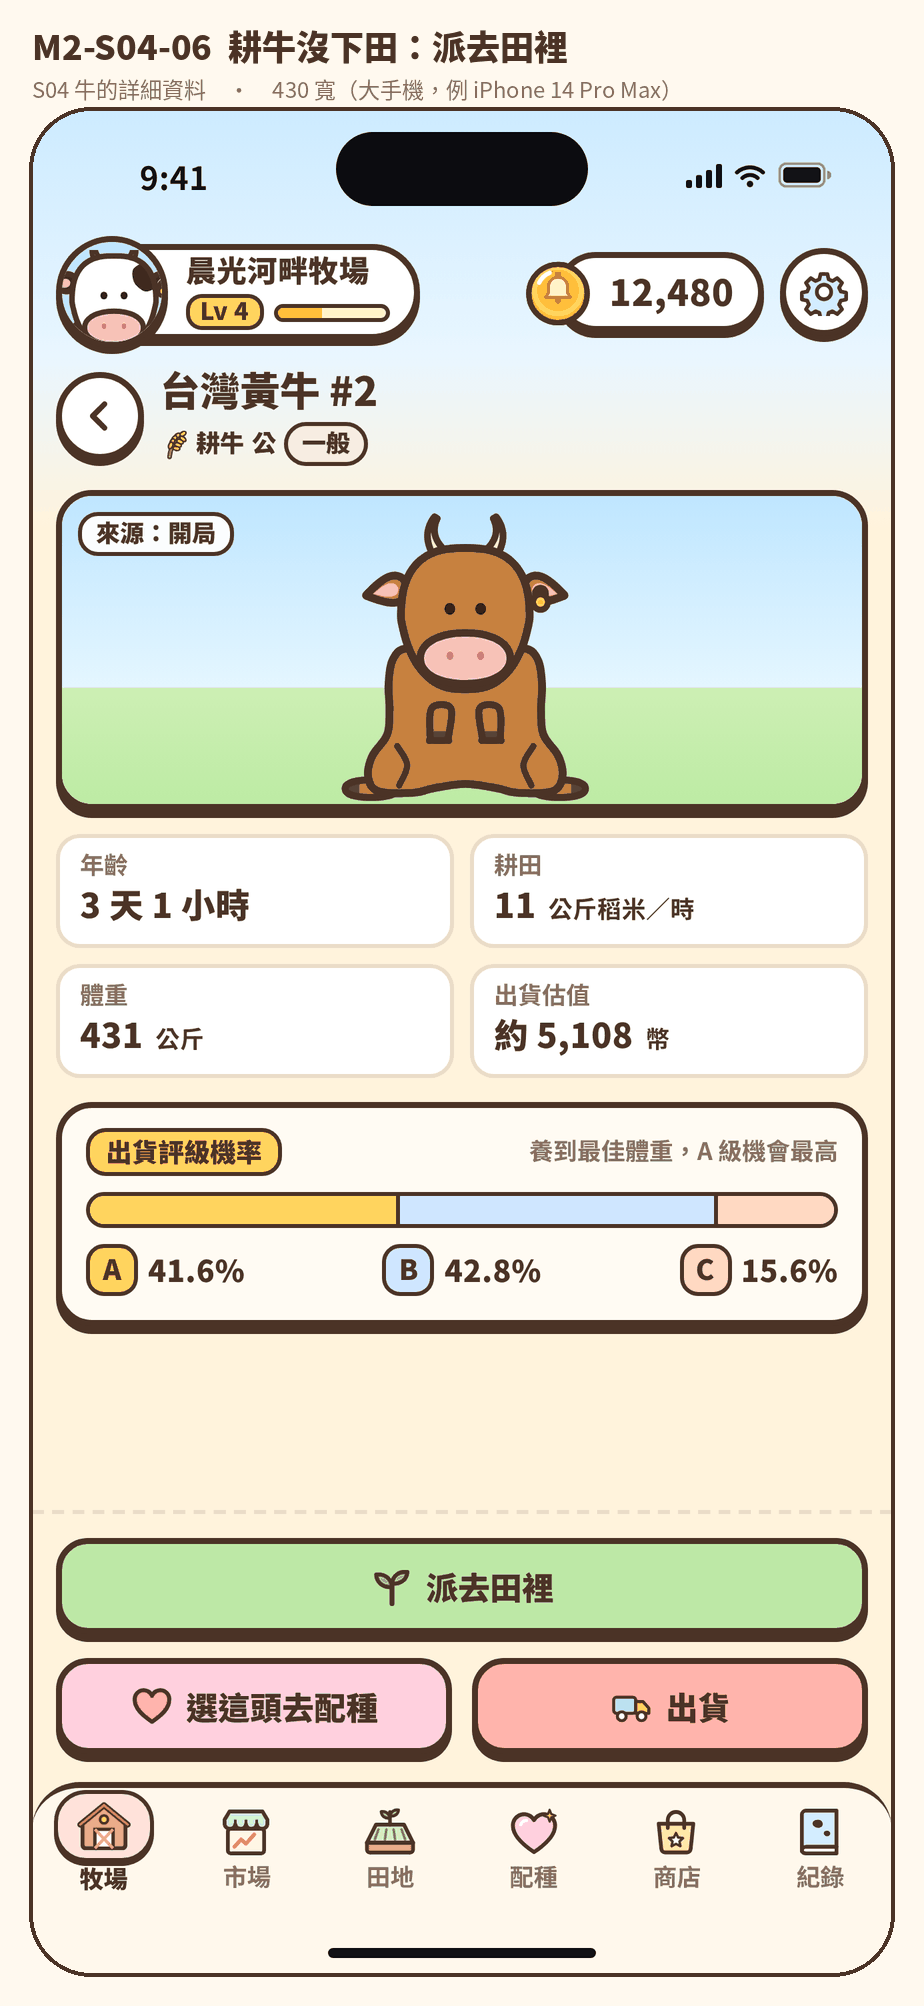
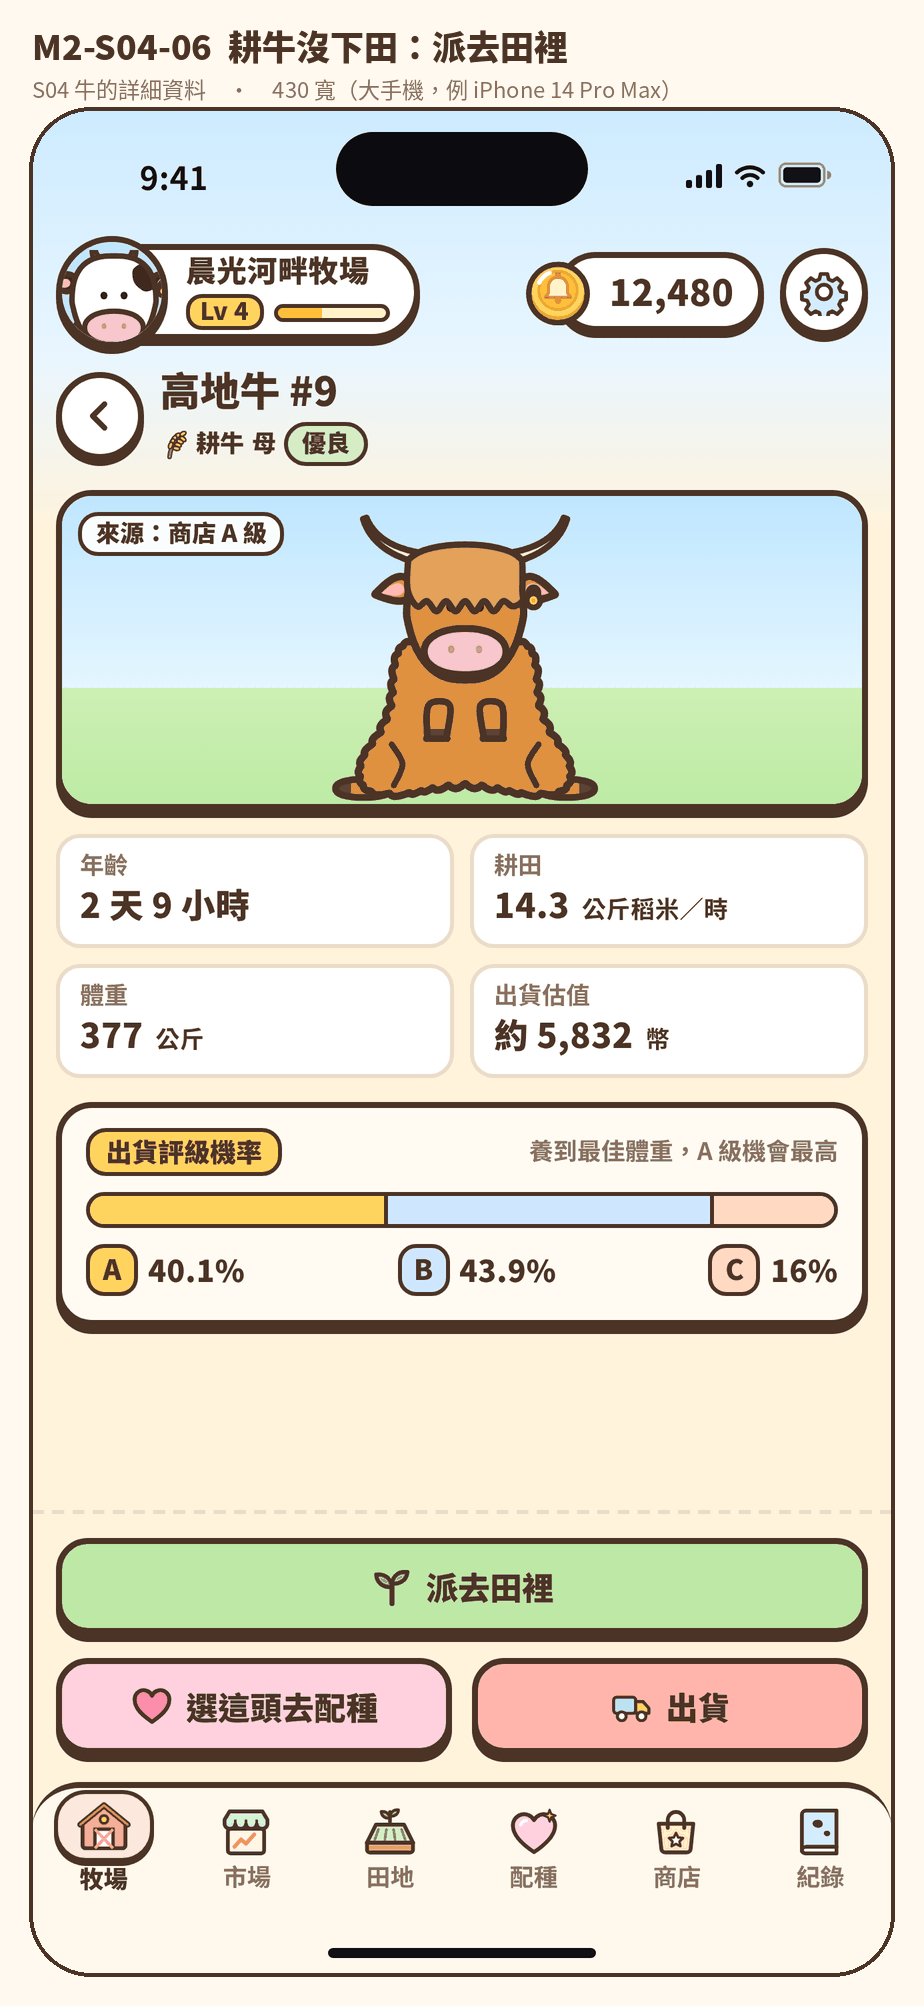
S04-06、07、13 的範例牛改成母耕牛高地牛 #9（公耕牛的 4 個動作在 S04-14～16，D31）；scope.md 補公耕牛沒有空田的規則（cow-app #99）

diff --git a/design/m2/src/js/screens/s04.js b/design/m2/src/js/screens/s04.js
@@ -74,8 +74,11 @@ full('S04-05', '公牛上架中', (ctx) => detailPage(ctx, cowById(5), {
   buttons: `${btn(t('unlist'), { ic: 'tag', block: true })}<div class="btn-row" style="margin-top:12px">${breedBtn(true)}${shipBtn(true)}</div>`,
 }));
 const idleOx = { ...cowById(2), field: null };
-full('S04-06', '耕牛沒下田：派去田裡', (ctx) => detailPage(ctx, idleOx, { buttons: `${btn(t('g.assign'), { kind: 'green', ic: 'sprout', block: true })}<div class="btn-row" style="margin-top:12px">${breedBtn(false)}${shipBtn(false)}</div>` }));
-full('S04-07', '耕牛在田裡工作', (ctx) => detailPage(ctx, cowById(2), {
+// 母耕牛（高地牛 #9）只能下田、不能上架借種，所以一排一顆（S04-06、07、13；配過種的公耕牛也是這樣）。
+// 成年、沒配過種的公耕牛（黃牛 #2）是 4 個動作，見 S04-14～16（D31；ceo 2026-10-02 把範例牛換掉，跟 cow-app #99 一致）
+const cowOx = { ...cowById(9), field: null };
+full('S04-06', '耕牛沒下田：派去田裡', (ctx) => detailPage(ctx, cowOx, { buttons: `${btn(t('g.assign'), { kind: 'green', ic: 'sprout', block: true })}<div class="btn-row" style="margin-top:12px">${breedBtn(false)}${shipBtn(false)}</div>` }));
+full('S04-07', '耕牛在田裡工作', (ctx) => detailPage(ctx, { ...cowById(9), field: 0 }, { // 第 1 塊田（跟原本的稿一樣）
   note: t('recallFirst', { n: 1 }),
   buttons: `${btn(t('s04.recall'), { ic: 'hand', block: true })}<div class="btn-row" style="margin-top:12px">${breedBtn(true)}${shipBtn(true)}</div>`,
 }));
@@ -89,7 +92,7 @@ full('S04-11', '這頭牛已經不在了', (ctx) => frame(ctx.dev, { tab: 'ranch
   <div class="page-head"><button class="icon-btn" aria-label="${t('back')}">${icon('back', 22)}</button><div class="grow"><h1>${t('cowTitle', { id: 3 })}</h1></div></div>
   <article class="card">${empty({ pic: cowSVG({ breed: 'holstein' }, { w: 120, h: 120, sil: true }), t1: t('s04.goneTitle'), t2: t('s04.goneBody'), action: btn(t('s04.backRanch'), { kind: 'primary' }) })}</article></div>` }));
 part('S04-12', '斷線：按鈕全部停用', '.detail-actions', (ctx) => detailPage(ctx, cowById(3), { offline: true, buttons: `<div class="btn-row">${breedBtn(true)}${shipBtn(true)}</div>` }));
-part('S04-13', '耕牛：沒有空田，派不出去', '.detail-actions', (ctx) => detailPage(ctx, idleOx, { buttons: `${btn(t('g.assign'), { kind: 'green', ic: 'sprout', block: true, disabled: true })}<p class="warn-text" style="margin-top:8px;text-align:center">${t('s04.noField')}</p><div class="btn-row" style="margin-top:10px">${breedBtn(false)}${shipBtn(false)}</div>` }));
+part('S04-13', '耕牛：沒有空田，派不出去', '.detail-actions', (ctx) => detailPage(ctx, cowOx, { buttons: `${btn(t('g.assign'), { kind: 'green', ic: 'sprout', block: true, disabled: true })}<p class="warn-text" style="margin-top:8px;text-align:center">${t('s04.noField')}</p><div class="btn-row" style="margin-top:10px">${breedBtn(false)}${shipBtn(false)}</div>` }));
 // 公耕牛（成年、沒配過種）：可以下田，也可以上架借種，一共 4 個動作。第一排兩顆半寬：派去田裡（或叫回來）、上架借種（或下架）；第二排照舊（缺口清單 2-1，D31）
 const oxRow = (a, b) => `<div class="btn-row">${a}${b}</div><div class="btn-row" style="margin-top:12px">`;
 const FEE2 = studFee(idleOx.kg, 0);

diff --git a/design/m2/scope.md b/design/m2/scope.md
@@ -152,20 +152,22 @@
 | S04-03 | 公牛，可以上架：多「上架」 | 整頁 | `:147-155` | `S.list` | 有（沒有截圖） |
 | S04-04 | 上架借種：借種費由系統算（體重 × 每公斤價格），顯示算法；「上架（870 幣）」 | 整頁 | `_list`（`:232-251`）；D26 | 新（取代選價位） | 部分 |
 | S04-05 | 公牛上架中：名字下面「上架中」標籤；出貨、配種停用；「下架」。不放橘字提醒（使用者 2026-10-02 拿掉，D31） | 整頁 | `listed`（`:74,90,136-146`） | `S.listedAt`、`S.unlist` | 有（沒有截圖） |
-| S04-06 | 耕牛，沒下田：「派去田裡」 | 整頁 | `:108,122-132` | `S.assignOx` | 部分 |
-| S04-07 | 耕牛在田裡：「在第 N 塊田工作」＋橘字；出貨、配種停用；「叫回」 | 整頁 | `working`（`:73,89,110-120`） | `S.workingIn`、`S.recallFirst`、`S.recall` | 有（沒有截圖） |
+| S04-06 | 母耕牛（或配過種的公耕牛），沒下田：「派去田裡」。範例是高地牛 #9 | 整頁 | `:108,122-132` | `S.assignOx` | 部分 |
+| S04-07 | 母耕牛（或配過種的公耕牛）在田裡：「在第 N 塊田工作」＋橘字；出貨、配種停用；「叫回」。範例是高地牛 #9，在第 1 塊田 | 整頁 | `working`（`:73,89,110-120`） | `S.workingIn`、`S.recallFirst`、`S.recall` | 有（沒有截圖） |
 | S04-08 | 小牛：長大倒數；「小牛還不能出貨」停用；配種停用；不顯示估值 | 整頁 | 還沒到 `adultAt`（`:76-85,94-95,105`） | `S.growUp`、`S.shipNotAdult` | 有（沒有截圖） |
 | S04-09 | 已配種：「已配種（每頭牛一輩子只能配種一次）」；配種、上架停用 | 整頁 | `bred`（`:75`） | `S.badgeBred`、`S.breedOnce` | 有（沒有截圖） |
 | S04-10 | 老牛 | 局部 | `stage`（`format.dart:71-75`） | `S.stageOld` | 有 |
 | S04-11 | 這頭牛已經不在了（剛出貨或別的手機操作）：「找不到這頭牛」＋返回 | 整頁 | `cow == null`（`:34-35`） | 新（M1 誤用 `S.noCows`） | 部分 |
 | S04-12 | 斷線：所有按鈕停用 | 局部 | 共用 | — | 有 r2/08 |
-| S04-13 | 耕牛：沒有空田，「派去田裡」停用＋說明（2026-10-01 畫圖時從 S04-06 拆出來） | 局部 | 沒有空田；M1 不看有沒有空田（`:127-129`） | 新 | 無 |
+| S04-13 | 母耕牛（或配過種的公耕牛）：沒有空田，「派去田裡」停用＋說明（2026-10-01 畫圖時從 S04-06 拆出來） | 局部 | 沒有空田；M1 不看有沒有空田（`:127-129`） | 新 | 無 |
 | S04-14 | 公耕牛（成年、沒配過種）：第一排兩顆半寬「派去田裡」「上架借種」，第二排「選這頭去配種」「出貨」 | 整頁 | `can_work` 和 `stud_fee` 都有（協定 2.3；缺口清單 2-1） | 沿用 | 無 |
 | S04-15 | 公耕牛在田裡：第一排「叫回來」、上架借種停用；配種、出貨停用；橘字「在第 1 塊田工作，先叫回來才能出貨、配種或上架」 | 整頁 | `working`（缺口清單 2-1） | 新（`s04.recallFirstOx`，使用者 2026-10-02 核准，D31） | 無 |
 | S04-16 | 公耕牛上架中：第一排派去田裡停用、「下架」；配種、出貨停用；不放橘字提醒 | 整頁 | `listed`（缺口清單 2-1） | 沿用（使用者 2026-10-02 核准，D31） | 無 |
 
 - 品種名＋編號要畫。品質星等、生病與照顧第一版不做，不畫（ceo 2026-10-01；企劃書 4.1 已改）。
 - 公耕牛（使用者 2026-10-02 核准，D31）：可以下田也可以上架借種，第一排放兩顆半寬的按鈕（派去田裡或叫回來、上架借種或下架），第二排照舊。英文、泰文窄手機放不下時，一顆一排；內容區的底部跟著動作區實際的高度往上推（`kit.js` 的 `fitActions()`，任何動作區比預留高的狀態都適用）。
+- 公耕牛（S04-14）沒有空田：第一排照樣兩顆，「派去田裡」停用，「上架借種」照樣能按；「沒有空田」那句放在第一排和第二排中間，間距跟 S04-13 一樣（ceo 2026-10-02 同意，cow-app #99 已經這樣做）。
+- S04-06、07、13 的範例牛是母耕牛（高地牛 #9）：一整排一顆的樣子，只有母耕牛和配過種的公耕牛會看到（ceo 2026-10-02；原本畫的是公耕牛 #2，跟 D31 的 S04-14～16 矛盾）。
 - 上架中的公牛（S04-05、S04-16）不放橘字提醒：使用者 2026-10-02 說「不用跟使用者講這個機制」（D31）。在田裡的橘字照留（S04-07、S04-15）。
 - 正面大圖左上角的來源標籤（「來源：商店 C 級」）不能蓋到牛頭（ceo 2026-10-02）：
   - 大圖的牛是 200×150、置中；標籤在卡片內左上角（左 8、上 8）。24 種牛（公母、成年小牛）都量過，牛頭最靠左的地方離牛圖左緣：一行標籤的高度內 42 px、兩行的高度內 38 px。
